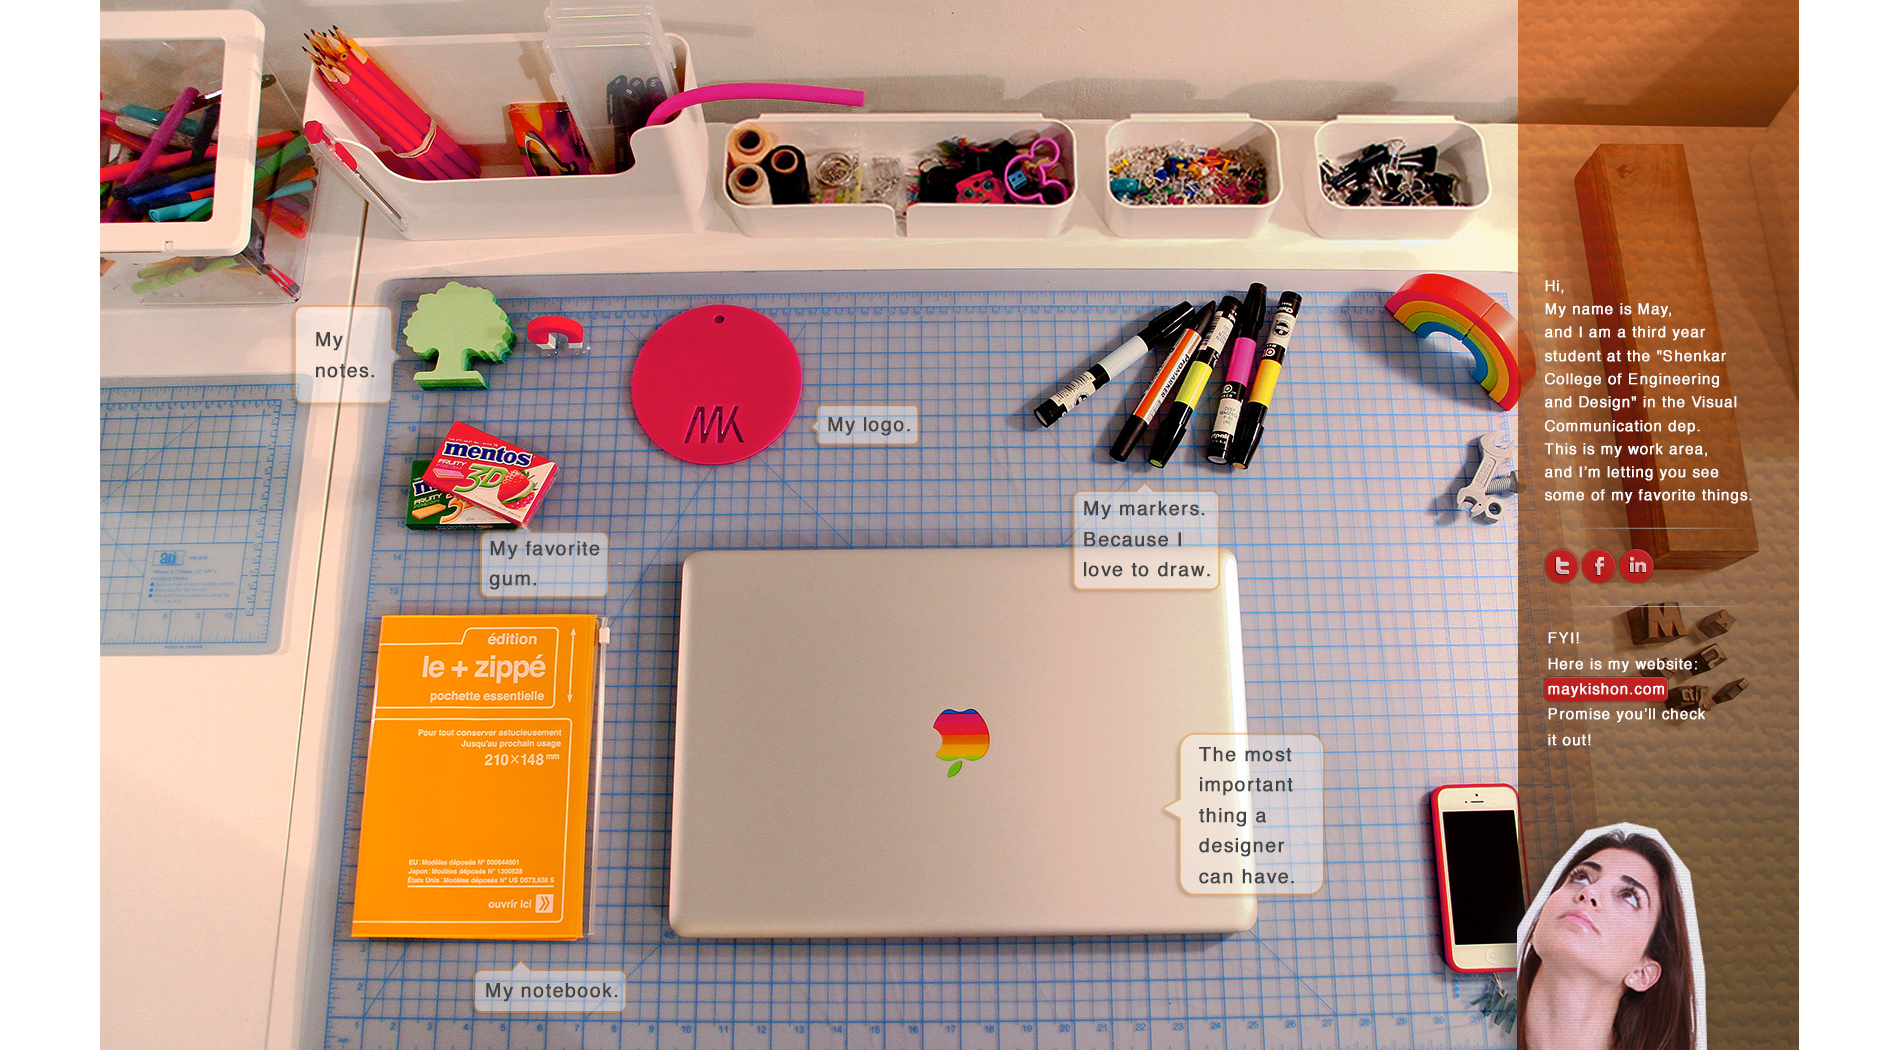
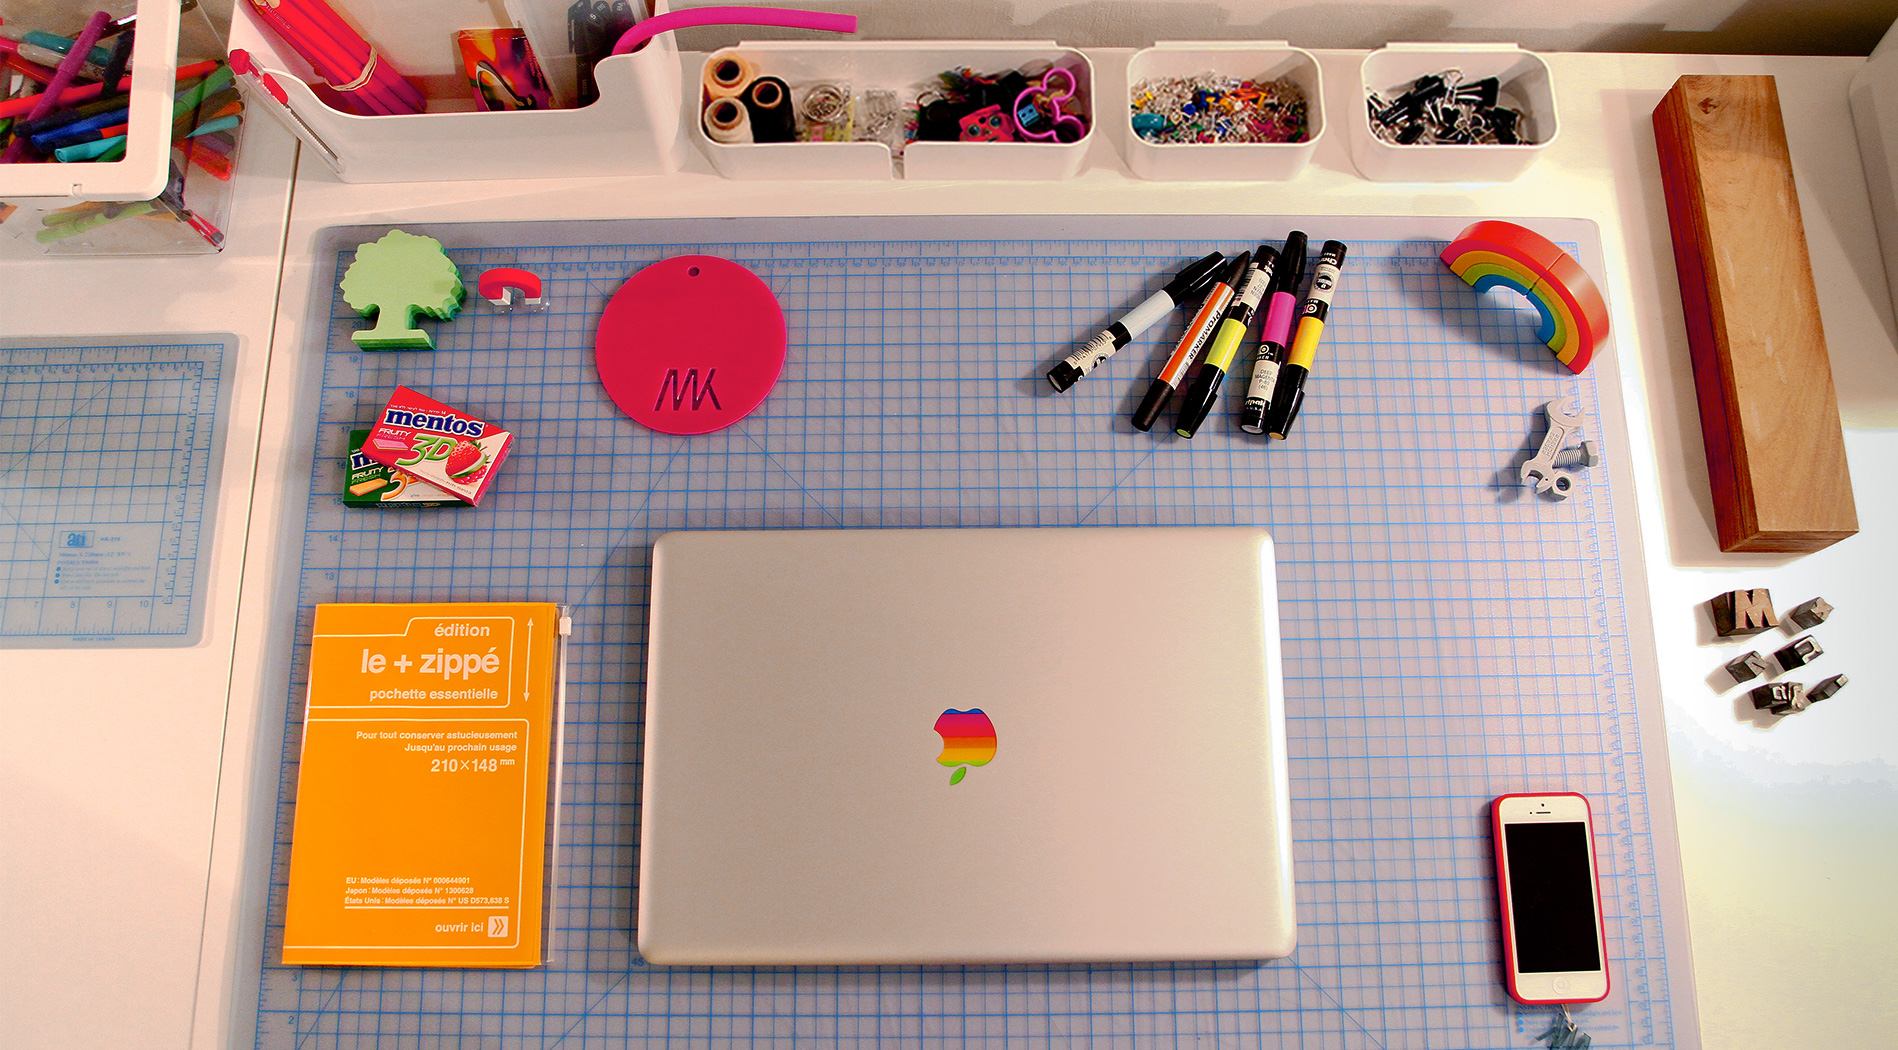
erase and upload new bg photo

diff --git a/index.html b/index.html
@@ -7,7 +7,11 @@
     <link href="css/custom.css" rel="stylesheet" media="screen">
   </head>
   <body>
- 
+ <aside>
+   <p>Hi, My name is May, and I am a third year student at the "Shenkar College of Engineering and Design" in the Visual Communication dep.</p>
+   <p class="green">This is my work area, and I'm letting you see some of my favorite things.</p>
+ </aside>
+
    <img src="img/bg.jpg" alt="my desk"/>
   
     <script src="http://code.jquery.com/jquery.js"></script>

diff --git a/css/custom.css b/css/custom.css
@@ -6,6 +6,22 @@ h1 {
 body {
     background-image:"https://github.com/maykishon/me/blob/gh-pages/img/my%20page.png?raw=true";
     }
+
+aside{
+	position: absolute;
+	top: 0;
+	right: 0;
+	width: 280px;
+	background: rgba(255,100,100,0.5);
+	height: 100%;
+}
+
+p {
+	color: #ffffff;
+}
+.white{
+	color: #ffffff;
+}
 container {
     padding-top: 200px;
     font-size: 15px;
